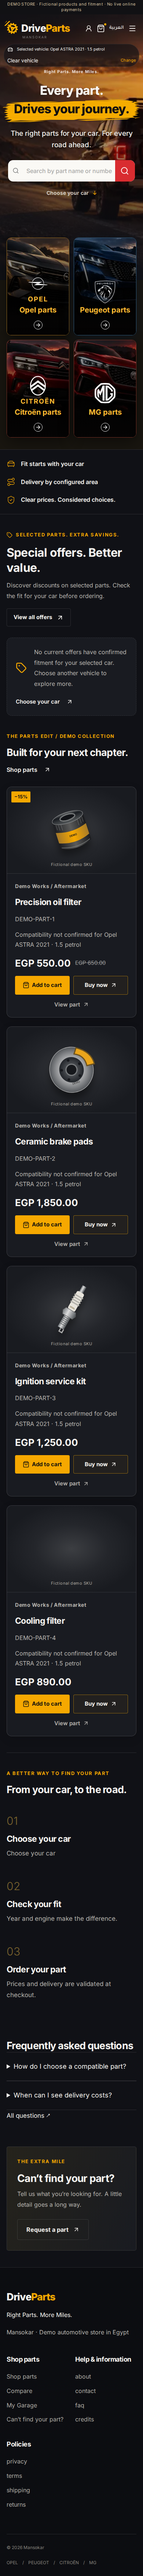
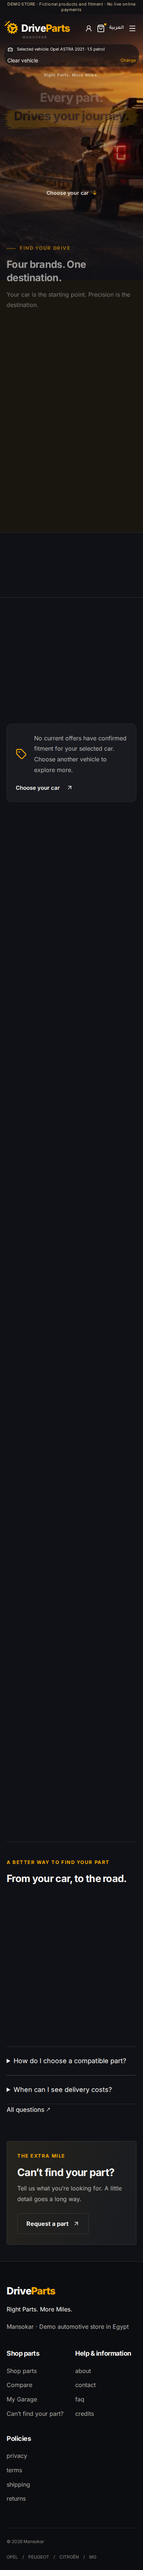
Add homepage visuals and slideshow updates

diff --git a/src/app/globals.css b/src/app/globals.css
@@ -1900,8 +1900,13 @@ th {
 .brand-deck .brand-grid {
   direction: ltr;
   gap: 16px;
-  grid-template-columns: repeat(3, minmax(0, 1fr));
-}.cinematic-brand {
+  grid-template-columns: repeat(4, minmax(0, 1fr));
+}
+.brand-deck .brand-grid > [data-motion-reveal] > .cinematic-brand {
+  width: 100%;
+  min-width: 0;
+}
+.cinematic-brand {
   height: 340px;
   isolation: isolate;
   border-radius: 18px !important;
@@ -2052,11 +2057,12 @@ th {
   }
   .cinematic-intro {
     min-height: 940px;
-  }.brand-deck .brand-grid {
-    grid-template-columns: repeat(3, minmax(0, 1fr));
+  }
+  .brand-deck .brand-grid {
+    grid-template-columns: repeat(4, minmax(0, 1fr));
     gap: 18px;
   }
-.cinematic-brand {
+  .cinematic-brand {
     height: 360px;
     border-radius: 20px !important;
   }
@@ -3601,4 +3607,337 @@ table {
   .hero-slideshow-images > .hero-slide {
     transition: none;
   }
+}
+
+/* Premium storefront finish: restrained light, depth, and purposeful motion. */
+.storefront-home {
+  background:
+    radial-gradient(ellipse 75% 18% at 50% 48%, #59401b16, transparent 75%),
+    radial-gradient(ellipse 65% 16% at 90% 82%, #26344519, transparent 75%),
+    #101116;
+}
+.storefront-home .header-inner {
+  border-bottom: 1px solid #ffffff20;
+}
+.storefront-home .desktop-nav > a,
+.storefront-home .header-tools > a {
+  transition: color 250ms ease, opacity 250ms ease, transform 250ms ease;
+}
+.storefront-home .desktop-nav > a:hover,
+.storefront-home .header-tools > a:hover {
+  color: #ffc657;
+  transform: translateY(-2px);
+}
+.cinematic-intro::after {
+  content: "";
+  position: absolute;
+  inset: auto 0 0;
+  height: 140px;
+  z-index: -1;
+  pointer-events: none;
+  background: linear-gradient(transparent, #101116);
+}
+.hero-slideshow-images > .hero-slide.is-active {
+  transform-origin: 65% 45%;
+  animation: premium-road-drift 14s ease-in-out infinite alternate;
+}
+@keyframes premium-road-drift {
+  from { transform: scale(1); }
+  to { transform: scale(1.055); }
+}
+.storefront-home .hero-content > .text-link span {
+  display: inline-block;
+  animation: premium-scroll-cue 2.4s ease-in-out infinite;
+}
+@keyframes premium-scroll-cue {
+  0%, 100% { transform: translateY(0); opacity: .72; }
+  50% { transform: translateY(5px); opacity: 1; }
+}
+.storefront-home .hero-search {
+  border: 1px solid #ffffff78;
+  box-shadow: 0 20px 60px #0007, 0 0 0 1px #ffffff18 inset;
+}
+.storefront-home .hero-search:focus-within {
+  border-color: #ffc657;
+  box-shadow: 0 24px 65px #0009, 0 0 0 4px #f6a80038;
+}
+.storefront-home .brand-deck {
+  isolation: isolate;
+}
+.brand-deck .brand-grid {
+  align-items: stretch;
+}
+.cinematic-brand {
+  position: relative;
+  box-shadow: 0 25px 60px -26px #000e, 0 0 0 1px #ffffff12 inset;
+}
+.cinematic-brand::after {
+  content: "";
+  position: absolute;
+  z-index: 0;
+  inset: -35% auto -35% -90%;
+  width: 65%;
+  transform: rotate(18deg);
+  background: linear-gradient(90deg, transparent, #ffffff21 50%, transparent);
+  opacity: 0;
+  pointer-events: none;
+  transition: left 700ms cubic-bezier(.22, 1, .36, 1), opacity 350ms;
+}
+.cinematic-brand:hover::after,
+.cinematic-brand:focus-visible::after {
+  left: 135%;
+  opacity: 1;
+}
+.cinematic-brand .brand-identity {
+  z-index: 1;
+  transition: transform 450ms cubic-bezier(.22, 1, .36, 1);
+}
+.cinematic-brand:hover .brand-identity,
+.cinematic-brand:focus-visible .brand-identity {
+  transform: translateY(-6px);
+}
+.cinematic-brand:focus-visible,
+.product-card:focus-within,
+.offer-card:focus-within,
+.model-card:focus-visible {
+  outline: 2px solid #ffc657;
+  outline-offset: 3px;
+}
+.storefront-home .trust-strip {
+  position: relative;
+  padding-block: 30px;
+  background: linear-gradient(100deg, #15171d, #1d1b1a 52%, #15171d);
+  border-color: #ffffff16;
+  box-shadow: 0 18px 55px #0004;
+}
+.storefront-home .trust-grid {
+  gap: 16px;
+}
+.storefront-home .trust-grid > div {
+  min-height: 78px;
+  justify-content: flex-start;
+  padding: 17px 22px;
+  border: 1px solid #ffffff18;
+  border-radius: 12px;
+  background: linear-gradient(135deg, #ffffff0b, #ffffff03);
+  transition: border-color 300ms ease, background 300ms ease;
+}
+.storefront-home .trust-grid > div:hover {
+  border-color: #f6a80065;
+  background: linear-gradient(135deg, #f6a80012, #ffffff04);
+}
+.storefront-home .trust-grid svg {
+  width: 27px;
+  height: 27px;
+  flex-shrink: 0;
+}
+.special-offers,
+.home-featured,
+.process,
+.home-faq,
+.campaign-section {
+  position: relative;
+}
+.special-offers-heading h2,
+.home-featured .section-heading h2,
+.process > h2,
+.home-faq h2 {
+  font-weight: 700;
+  letter-spacing: -.025em;
+  text-wrap: balance;
+}
+.home-featured,
+.process,
+.home-faq {
+  border-top: 1px solid #ffffff12;
+}
+.home-featured {
+  margin-top: 34px;
+}
+.storefront-home .product-card,
+.storefront-home .offer-card,
+.model-card,
+.campaign-section .panel {
+  background: linear-gradient(155deg, #262a31 0%, #1b1e24 42%, #17191f 100%);
+  border-color: #ffffff27;
+  box-shadow: 0 16px 45px -25px #000e, 0 1px 0 #ffffff0b inset;
+}
+.storefront-home .product-card {
+  position: relative;
+}
+.storefront-home .product-card::before,
+.storefront-home .offer-card::before {
+  content: "";
+  position: absolute;
+  top: 0;
+  inset-inline: 18px;
+  height: 1px;
+  z-index: 2;
+  background: linear-gradient(90deg, transparent, #ffc65a8c, transparent);
+  opacity: 0;
+  pointer-events: none;
+  transition: opacity 350ms ease;
+}
+.storefront-home .product-card:hover::before,
+.storefront-home .product-card:focus-within::before,
+.storefront-home .offer-card:hover::before,
+.storefront-home .offer-card:focus-within::before {
+  opacity: 1;
+}
+.storefront-home .product-card:hover,
+.storefront-home .product-card:focus-within,
+.storefront-home .offer-card:hover,
+.storefront-home .offer-card:focus-within {
+  border-color: #f6a8008c;
+  box-shadow: 0 26px 60px -24px #000f, 0 0 0 1px #ffc65a25 inset;
+}
+.storefront-home .product-card > .product-art {
+  background: radial-gradient(circle at 50% 38%, #4b4e535c, #1b1e25 70%);
+}
+.storefront-home .product-card .product-info {
+  border-top: 1px solid #ffffff11;
+}
+.storefront-home .product-details-link svg,
+.storefront-home .text-link svg {
+  transition: transform 250ms ease;
+}
+.storefront-home .product-details-link:hover svg,
+.storefront-home .text-link:hover svg {
+  transform: translate(3px, -3px);
+}
+.storefront-home .offer-card {
+  position: relative;
+}
+.storefront-home .offer-card:hover .offer-media > img,
+.storefront-home .offer-card:focus-within .offer-media > img {
+  transform: scale(1.065) rotate(-2deg);
+}
+.storefront-home .offer-percentage {
+  box-shadow: 0 8px 22px #0007;
+}
+.storefront-home .process {
+  padding-top: 85px;
+}
+.storefront-home .process .three-col {
+  gap: 18px;
+}
+.storefront-home .process .three-col > [data-motion-reveal] {
+  position: relative;
+  flex-direction: column;
+  min-height: 225px;
+  padding: 28px;
+  border: 1px solid #ffffff20;
+  border-radius: 16px;
+  background: linear-gradient(145deg, #24262d, #191b21 70%);
+  box-shadow: 0 18px 40px -30px #000e;
+  overflow: hidden;
+  transition: border-color 350ms ease, box-shadow 350ms ease;
+}
+.storefront-home .process .three-col > [data-motion-reveal]::before {
+  content: "";
+  position: absolute;
+  top: 0;
+  inset-inline-start: 0;
+  width: 30%;
+  height: 2px;
+  background: linear-gradient(90deg, #f6a800, transparent);
+  transition: width 500ms cubic-bezier(.22, 1, .36, 1);
+}
+.storefront-home .process .three-col > [data-motion-reveal]:hover {
+  border-color: #f6a8006b;
+  box-shadow: 0 25px 50px -27px #000f;
+}
+.storefront-home .process .three-col > [data-motion-reveal]:hover::before {
+  width: 80%;
+}
+.storefront-home .process .step {
+  font-size: 54px;
+  line-height: 1;
+  font-weight: 800;
+  margin-bottom: 24px;
+}
+.storefront-home .process h3 {
+  font-size: clamp(21px, 2vw, 27px);
+  font-weight: 700;
+  margin-bottom: 12px;
+}
+.storefront-home .home-faq .accordion {
+  border: 1px solid #ffffff1d;
+  border-radius: 12px;
+  padding: 18px 22px;
+  margin-block: 10px;
+  background: linear-gradient(125deg, #24262b, #191b20);
+  transition: border-color 300ms ease, background 300ms ease;
+}
+.storefront-home .home-faq .accordion:hover,
+.storefront-home .home-faq .accordion[open] {
+  border-color: #f6a80071;
+  background: linear-gradient(125deg, #292820, #1c1d20);
+}
+.storefront-home .home-faq .accordion summary {
+  display: flex;
+  align-items: center;
+  gap: 20px;
+  list-style: none;
+  font-weight: 700;
+}
+.storefront-home .home-faq .accordion summary::-webkit-details-marker {
+  display: none;
+}
+.storefront-home .home-faq .accordion summary::after {
+  content: "+";
+  margin-inline-start: auto;
+  color: #ffc657;
+  font-size: 26px;
+  line-height: 1;
+  transition: transform 250ms ease;
+}
+.storefront-home .home-faq .accordion[open] summary::after {
+  transform: rotate(45deg);
+}
+.storefront-home .request-strip {
+  position: relative;
+  overflow: hidden;
+  border-color: #ffc65755;
+  border-radius: 18px;
+  background: radial-gradient(circle at 10% 0%, #f6a80020, transparent 45%), linear-gradient(110deg, #292720, #181b21 75%);
+  box-shadow: 0 26px 60px -35px #000f;
+}
+.storefront-home .request-strip::before {
+  content: "";
+  position: absolute;
+  top: 0;
+  inset-inline: 0;
+  height: 1px;
+  background: linear-gradient(90deg, transparent, #ffd37e9c, transparent);
+}
+.storefront-home .button:not(:disabled) {
+  transition: transform 250ms ease, box-shadow 250ms ease, background-color 250ms ease, border-color 250ms ease;
+}
+.storefront-home .button:not(:disabled):hover {
+  transform: translateY(-2px);
+  box-shadow: 0 10px 28px #0006;
+}
+@media (max-width: 760px) {
+  .storefront-home .trust-strip { padding-block: 18px; }
+  .storefront-home .trust-grid { gap: 10px; }
+  .storefront-home .trust-grid > div { min-height: 62px; padding: 12px 16px; }
+  .storefront-home .process { padding-top: 58px; }
+  .storefront-home .process .three-col { gap: 12px; }
+  .storefront-home .process .three-col > [data-motion-reveal] { min-height: 0; padding: 22px; }
+  .storefront-home .process .step { font-size: 42px; margin-bottom: 12px; }
+  .home-featured { margin-top: 12px; }
+}
+@media (prefers-reduced-motion: reduce) {
+  .hero-slideshow-images > .hero-slide.is-active,
+  .storefront-home .hero-content > .text-link span { animation: none; }
+  .cinematic-brand,
+  .cinematic-brand::after,
+  .cinematic-brand .brand-identity,
+  .storefront-home .product-card,
+  .storefront-home .offer-card,
+  .storefront-home .button,
+  .storefront-home .product-details-link svg,
+  .storefront-home .text-link svg,
+  .storefront-home .process .three-col > [data-motion-reveal] { transition-duration: .01ms; }
 }

diff --git a/src/components/campaigns.tsx b/src/components/campaigns.tsx
@@ -18,7 +18,7 @@ export async function Campaigns({ locale }: { locale: Locale }) {
   const media = await siteMedia(data.map((c) => "campaign-" + c.id));
   return (
     <section
-      className="shell section"
+      className="shell section campaign-section"
       aria-label={locale === "ar" ? "حملات المتجر" : "Store campaigns"}
     >
       <div className="three-col">

diff --git a/docs/COMPLETION_PROGRESS.md b/docs/COMPLETION_PROGRESS.md
@@ -34,6 +34,7 @@ This records code completed after the original gap audit. It does not claim a la
 
 - [x] Account lookup by email/name/phone includes accounts without saved profiles. Enabled administrators can edit name, phone and preferred language; privileged Auth fields and verification are not browser-editable.
 - [x] Uploaded hero, store logo, brand-card photos/logos, model photos and campaign media can be assigned, previewed and restored through Branding. Images remain in private Storage and are served through short-lived signed URLs; image optimization is restricted to the configured project/catalog bucket.
+- [x] Homepage hero slideshow can be edited at `/admin?module=hero-slideshow`: upload up to ten images, write Arabic/English descriptions, enable, reorder or remove slides, and set rotation timing. The previous hero artwork remains the fallback until a slide is enabled. Rotation pauses on hover, focus, tab hiding and reduced-motion preference; controls support manual navigation.
 - [x] Store name/contact/intro settings feed navigation, footer and metadata.
 - [x] Category hierarchy, sorting, bilingual introductions and SEO forms; database cycle prevention; parent-category browsing includes descendant products.
 - [x] Linked breadcrumbs and structured breadcrumb data; localized brand/model/page metadata and common public validation/accessibility labels. Unknown public errors no longer disclose database internals.
@@ -67,3 +68,5 @@ Campaigns and product relationships now have merchant controls and storefront be
 Latest verification: all sixteen named local tests pass (one includes many migrated-PostgreSQL assertions). The deployed authenticated suite passes profile-less email lookup and its member-denial case, support profile edits, editorial media assignment/restoration, optimized private media, custom-vehicle inquiry form submission and the routine merchant screens. Public browser checks pass comparison minimums, Arabic brand metadata/breadcrumb schema and category autocomplete, plus the original storefront scenarios. Ten deployed accessibility views report zero violations. Security advisors return no warning/error issues. Both new migration versions match the remote history. Disposable test records are cleaned up.
 
 Final source verification also passes English-only and Arabic-only optional SEO saves, own-account data export (identity/cart/order lines), export privacy boundaries, preview noindex headers and normalized canonical paths. `npm audit --omit=dev --audit-level=moderate` reports zero vulnerabilities. These checks do not replace a separate external security review or merchant launch approval.
+
+The hero slideshow migration and its safe-delete follow-up are applied. Live disposable admin QA passes protected writes, image upload, descriptions, enabled/disabled publishing, ordering/removal, automatic/manual rotation, pause behavior, reduced motion and mobile preview. All QA slides and settings were removed; the live homepage currently uses its existing fallback image. Supabase security advisors report no issues for the new schema.
